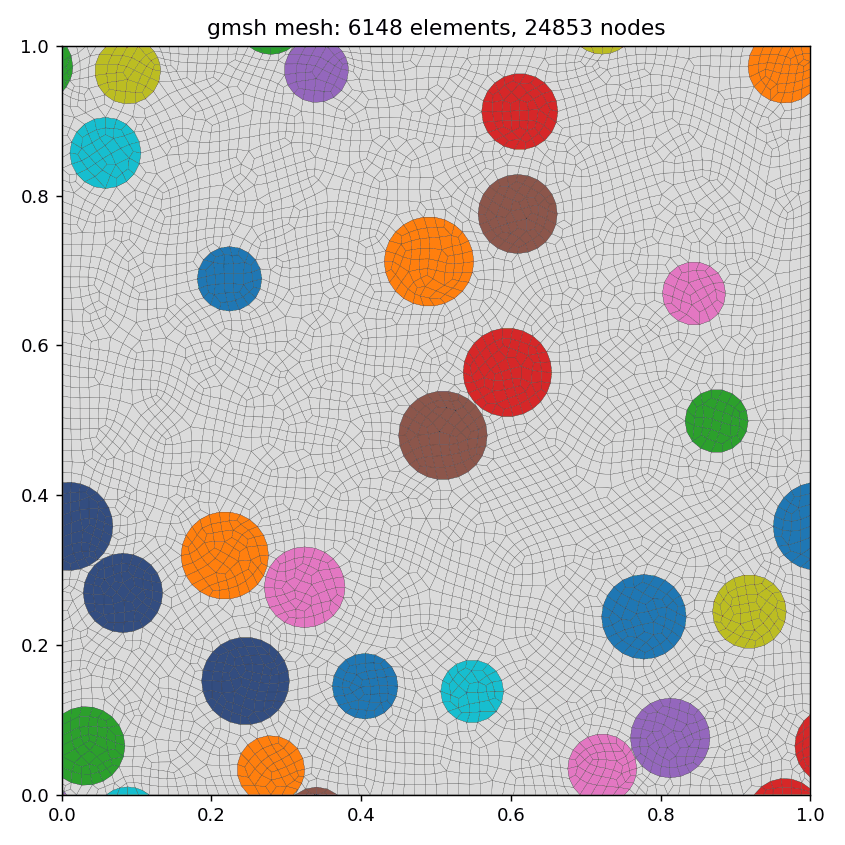
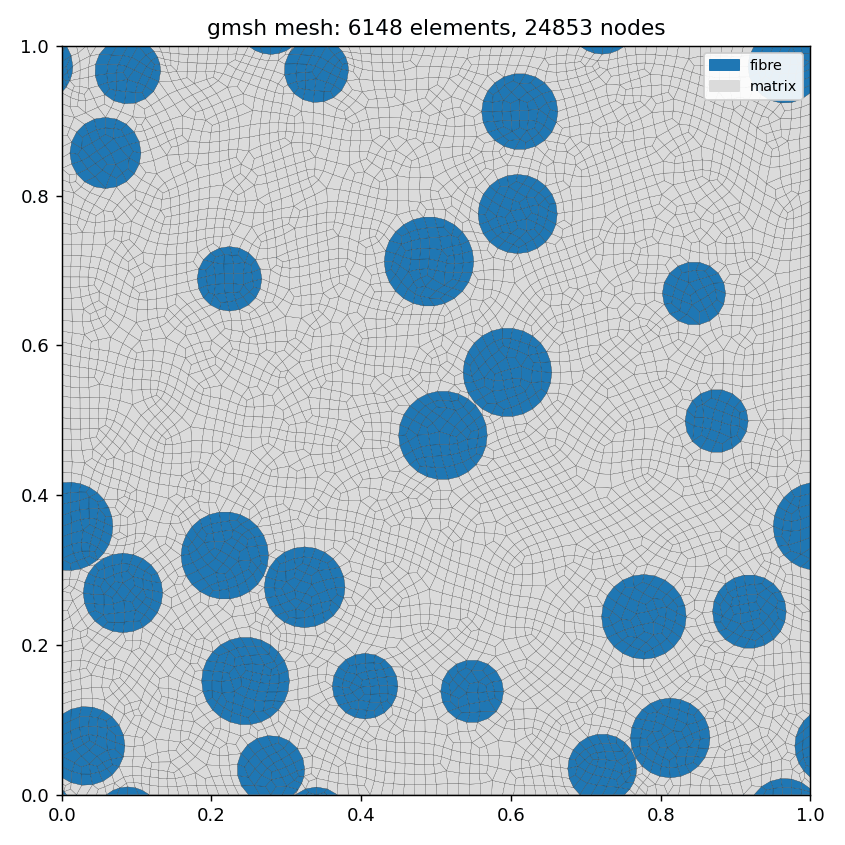
Gallery: seven new examples (twill and satin weave, periodic Voronoi, polycrystal gmsh geometry, grain-size control, A2 orientation tensor, rotated mesh inclusions), physical groups in the gmsh workflow example, checker handles periodic tessellations and phases

diff --git a/tests/cli_example_check.py b/tests/cli_example_check.py
@@ -92,6 +92,10 @@ class IdMode:
         gen = config.get("generator", {})
         self.tessellation = gen.get("type") in TESSELLATION_GENERATORS
         self.n_seeds = gen.get("n_seeds") if self.tessellation else None
+        # A periodic tessellation also returns the copies of the grains
+        # that cross a face; they carry the id of their grain, so the
+        # number of shapes is larger than the number of grains.
+        self.periodic = bool(self.tessellation and gen.get("periodic"))
         self.phases = None
         if "phases" in config or "phase_assignment" in config:
             phases = config.get("phases")
@@ -121,6 +125,8 @@ class IdMode:
         return (f"phase ids {sorted(distinct)} of 0..{nph}", len(distinct))
 
     def _check_tessellation(self, name, vals):
+        if self.periodic:
+            return self._check_periodic_tessellation(name, vals)
         n = self.nshapes
         if self.n_seeds is not None:
             seeds = int(self.n_seeds)
@@ -135,6 +141,23 @@ class IdMode:
         if present < 0.9 * n:
             fail(f"{name}: only {present} of {n} grain ids appear in the grid")
         return ("tessellation, no matrix voxel", present)
+
+    def _check_periodic_tessellation(self, name, vals):
+        n = self.nshapes
+        if min(vals) < 1 or max(vals) > n:
+            fail(f"{name}: grain ids outside 1..{n} "
+                 f"(found {min(vals)}..{max(vals)}); a tessellation has no matrix")
+        present = len(set(vals))
+        # Every shape is a grain or a copy of one, and a grain has at most
+        # 2^d - 1 copies; fewer distinct ids than that means grains merged.
+        if present > n or present < n / 8:
+            fail(f"{name}: {present} grain ids for {n} shapes of a periodic "
+                 "tessellation")
+        if self.n_seeds is not None:
+            seeds = int(self.n_seeds)
+            if present > seeds or present < 0.9 * seeds:
+                fail(f"{name}: {present} grains for n_seeds = {seeds}")
+        return ("periodic tessellation, no matrix voxel", present)
 
     def _check_shapes(self, name, vals):
         inclusion, present = check_ids(name, vals, self.nshapes)
@@ -451,6 +474,10 @@ def measured_fraction(rvegen, config, config_dir, work, domain):
     three_d = domain[2] > 0
     n = 96 if three_d else 512
     derived = dict(config)
+    # With phases declared the grid would hold phase ids, the matrix phase
+    # included; without them it holds 0 for matrix and a shape id otherwise.
+    derived.pop("phases", None)
+    derived.pop("phase_assignment", None)
     derived["postprocess"] = [{"type": "voxel", "nx": n, "ny": n, "nz": n if three_d else 1,
                                "output_path": "fill_check.vox"}]
     path = work / "fill_check.json"

diff --git a/docs/gallery/README.md b/docs/gallery/README.md
@@ -11,6 +11,14 @@ Each config runs from any directory: rvegen resolves relative input paths
 The `gmsh_geo` pictures were meshed with gmsh 4.12.1; other gmsh
 versions mesh differently, so the element counts in their titles change.
 
+## aligned_ellipses_a2
+
+[`aligned_ellipses_a2.json`](../../examples/aligned_ellipses_a2.json) · 2D 1×1 · ellipse_input · generator `periodic` · 92 shapes
+
+> Ellipses whose long axes follow a prescribed second-order orientation tensor: von_mises_a2 takes the tensor components (here a11 = 0.85, strongly aligned with x) and fits the concentration of the angle distribution to them.
+
+<img src="aligned_ellipses_a2-svg.png" alt="aligned_ellipses_a2: SVG" width="440">
+
 ## bingham_fibres
 
 [`bingham_fibres.json`](../../examples/bingham_fibres.json) · 3D 1×1×1 · polyline_tube_oriented_input · generator `random` · 15 shapes
@@ -69,7 +77,7 @@ versions mesh differently, so the element counts in their titles change.
 
 [`fe_rve_workflow.json`](../../examples/fe_rve_workflow.json) · 2D 1×1 · circle_input · generator `periodic` · 34 shapes
 
-> End-to-end FE-RVE workflow demo. Periodic 2D circle pack at 20% fibre fraction. Emits a gmsh .geo with every knob the FE-RVE workflow typically needs: periodic Curve directives, characteristic element size, quadratic element order, Frontal-Delaunay algorithm (6; algorithm 8 segfaults gmsh 4.12 when periodic constraints are present), and tri->quad recombination. Run gmsh on the resulting .geo and you get a periodic quad mesh ready for meshing in gmsh. Note on Physical groups: shapes carry the phase_name 'fibre' on their info blob, but the gmsh writer's JSON schema doesn't (yet) accept a phase_collection so the produced .geo doesn't emit `Physical Surface("fibre", ...)` directives — that requires attaching the collection in C++ via set_phases(&phases). The JSON-config phase-group hookup is a separate follow-up.
+> Periodic 2D circle pack at 20 % as a gmsh geometry with the options a finite-element mesh usually needs: periodic curve constraints, element sizes, quadratic elements, Frontal-Delaunay meshing (algorithm 6; algorithm 8 crashes gmsh 4.12 when periodic constraints are present) and recombination into quads. The phases declared here become physical groups in the .geo: Physical Surface("fibre") for the circles and Physical Surface("matrix") for the rest.
 
 <img src="fe_rve_workflow-gmsh_geo.png" alt="fe_rve_workflow: gmsh mesh of the .geo" width="440">
 
@@ -88,6 +96,14 @@ versions mesh differently, so the element counts in their titles change.
 > Arbitrary inclusion geometry from a triangle mesh: copies of an octahedron read from data/octahedron.stl, placed without overlap and voxelised to 64^3. The mesh_path is relative to this config file, so the example runs from any directory.
 
 <img src="mesh_inclusions_3d-vtk_legacy.png" alt="mesh_inclusions_3d: voxel grid (.vtk)" width="440">
+
+## mesh_inclusions_rotated
+
+[`mesh_inclusions_rotated.json`](../../examples/mesh_inclusions_rotated.json) · 3D 1×1×1 · mesh_inclusion_input · generator `only_inside` · 40 shapes
+
+> Copies of one triangle mesh (data/octahedron.stl) with a random orientation and a random size each: orientation 'uniform' draws isotropic rotations, scale_dist the scale factor. All copies share the triangles of the file.
+
+<img src="mesh_inclusions_rotated-three_js.png" alt="mesh_inclusions_rotated: three.js viewer (screenshot)" width="440">
 
 ## mixed_2d_periodic_gmsh
 
@@ -181,6 +197,15 @@ versions mesh differently, so the element counts in their titles change.
 <img src="polydisperse_circles-svg.png" alt="polydisperse_circles: SVG" width="440">
 <img src="polydisperse_circles-vtk_legacy.png" alt="polydisperse_circles: voxel grid (.vtk)" width="440">
 
+## satin_weave
+
+[`satin_weave.json`](../../examples/satin_weave.json) · 3D 1×1×0.2 ·  · generator `weave` · 20 shapes
+
+> Satin 5 weave: each yarn floats over four crossing yarns and dips under the fifth, with the dips spread so that no two touch. Long floats, few interlacings. Warp and weft carry their own phase.
+
+<img src="satin_weave-voxel.png" alt="satin_weave: voxel grid (.vox)" width="440">
+<img src="satin_weave-three_js.png" alt="satin_weave: three.js viewer (screenshot)" width="440">
+
 ## spheres_in_cube
 
 [`spheres_in_cube.json`](../../examples/spheres_in_cube.json) · 3D 1×1×1 · sphere_input · generator `only_inside` · 20 shapes
@@ -197,6 +222,15 @@ versions mesh differently, so the element counts in their titles change.
 
 <img src="tow_weave-voxel.png" alt="tow_weave: voxel grid (.vox)" width="440">
 
+## twill_weave
+
+[`twill_weave.json`](../../examples/twill_weave.json) · 3D 1×1×0.2 ·  · generator `weave` · 16 shapes
+
+> Twill 2/2 weave: every yarn passes over two and under two crossing yarns, shifted by one from yarn to yarn, which gives the diagonal rib. Warp and weft carry their own phase, so the voxel grid tells them apart.
+
+<img src="twill_weave-voxel.png" alt="twill_weave: voxel grid (.vox)" width="440">
+<img src="twill_weave-three_js.png" alt="twill_weave: three.js viewer (screenshot)" width="440">
+
 ## voronoi_2d
 
 [`voronoi_2d.json`](../../examples/voronoi_2d.json) · 2D 1×1 ·  · generator `voronoi_2d` · 24 shapes
@@ -206,6 +240,23 @@ versions mesh differently, so the element counts in their titles change.
 <img src="voronoi_2d-svg.png" alt="voronoi_2d: SVG" width="440">
 <img src="voronoi_2d-voxel.png" alt="voronoi_2d: voxel grid (.vox)" width="440">
 
+## voronoi_2d_gmsh
+
+[`voronoi_2d_gmsh.json`](../../examples/voronoi_2d_gmsh.json) · 2D 1×1 ·  · generator `voronoi_2d` · 30 shapes
+
+> 2D Voronoi polycrystal as a conforming gmsh geometry: the grains share their boundary curves, so the mesh has no gaps or doubled nodes between grains, and every grain is a physical group of its own.
+
+<img src="voronoi_2d_gmsh-gmsh_geo.png" alt="voronoi_2d_gmsh: gmsh mesh of the .geo" width="440">
+
+## voronoi_2d_periodic
+
+[`voronoi_2d_periodic.json`](../../examples/voronoi_2d_periodic.json) · 2D 1×1 ·  · generator `voronoi_2d` · 57 shapes
+
+> Periodic 2D Voronoi polycrystal: grains that cross a face of the box continue on the opposite face, so the cell tiles the plane. Compare the left and right edge of the picture.
+
+<img src="voronoi_2d_periodic-svg.png" alt="voronoi_2d_periodic: SVG" width="440">
+<img src="voronoi_2d_periodic-voxel.png" alt="voronoi_2d_periodic: voxel grid (.vox)" width="440">
+
 ## voronoi_3d
 
 [`voronoi_3d.json`](../../examples/voronoi_3d.json) · 3D 1×1×1 ·  · generator `voronoi_3d` · 12 shapes
@@ -213,3 +264,11 @@ versions mesh differently, so the element counts in their titles change.
 > 3D Voronoi polycrystal on a unit cube, voxelised for FFT.
 
 <img src="voronoi_3d-voxel.png" alt="voronoi_3d: voxel grid (.vox)" width="440">
+
+## voronoi_3d_grain_sizes
+
+[`voronoi_3d_grain_sizes.json`](../../examples/voronoi_3d_grain_sizes.json) · 3D 1×1×1 ·  · generator `voronoi_3d` · 114 shapes
+
+> Periodic 3D polycrystal with a prescribed grain-size distribution: the equivalent grain diameters follow a lognormal distribution with the given mean and spread (a weighted tessellation fitted to the drawn sizes), instead of whatever a plain Voronoi tessellation of random seeds happens to give.
+
+<img src="voronoi_3d_grain_sizes-voxel.png" alt="voronoi_3d_grain_sizes: voxel grid (.vox)" width="440">

diff --git a/README.md b/README.md
@@ -225,7 +225,7 @@ periodic pack with `min_gap` and `wall_gap` set to the mesh size.
 ### Worked examples
 
 `examples/` holds one config per feature area (2D/3D, periodic, polydisperse,
-fibres, mesh inclusions, every writer); see the
+fibres, weaves, polycrystals, mesh inclusions, every writer); see the
 [example gallery](docs/gallery/README.md) for pictures of each. A few starting
 points:
 
@@ -233,7 +233,20 @@ points:
 - `examples/spheres_in_cube.json`: 3D, ~5% volume fraction, voxel output.
 - `examples/periodic_circles.json`: 2D periodic, 20% volume fraction, VTK and
   gmsh output.
-- `examples/fe_rve_workflow.json`: periodic FE mesh with every gmsh knob.
+- `examples/fe_rve_workflow.json`: periodic gmsh geometry with element
+  options and one physical group per phase.
+- `examples/periodic_min_gap.json`: a minimum gap between inclusions and to
+  the boundary.
+- `examples/aligned_ellipses_a2.json`: orientations from a second-order
+  orientation tensor.
+- `examples/twill_weave.json`, `examples/satin_weave.json`: weave patterns,
+  warp and weft as separate phases.
+- `examples/voronoi_2d_gmsh.json`: polycrystal as a conforming gmsh geometry,
+  one physical group per grain.
+- `examples/voronoi_3d_grain_sizes.json`: periodic polycrystal with a
+  prescribed grain-size distribution.
+- `examples/mesh_inclusions_rotated.json`: copies of an STL mesh with random
+  orientation and size.
 - `examples/circles_statistics.json`: S2(r) and g(r) of a dense pack.
 
 Run any of them with `./build/rvegen <path-to.json>` from any directory; the
